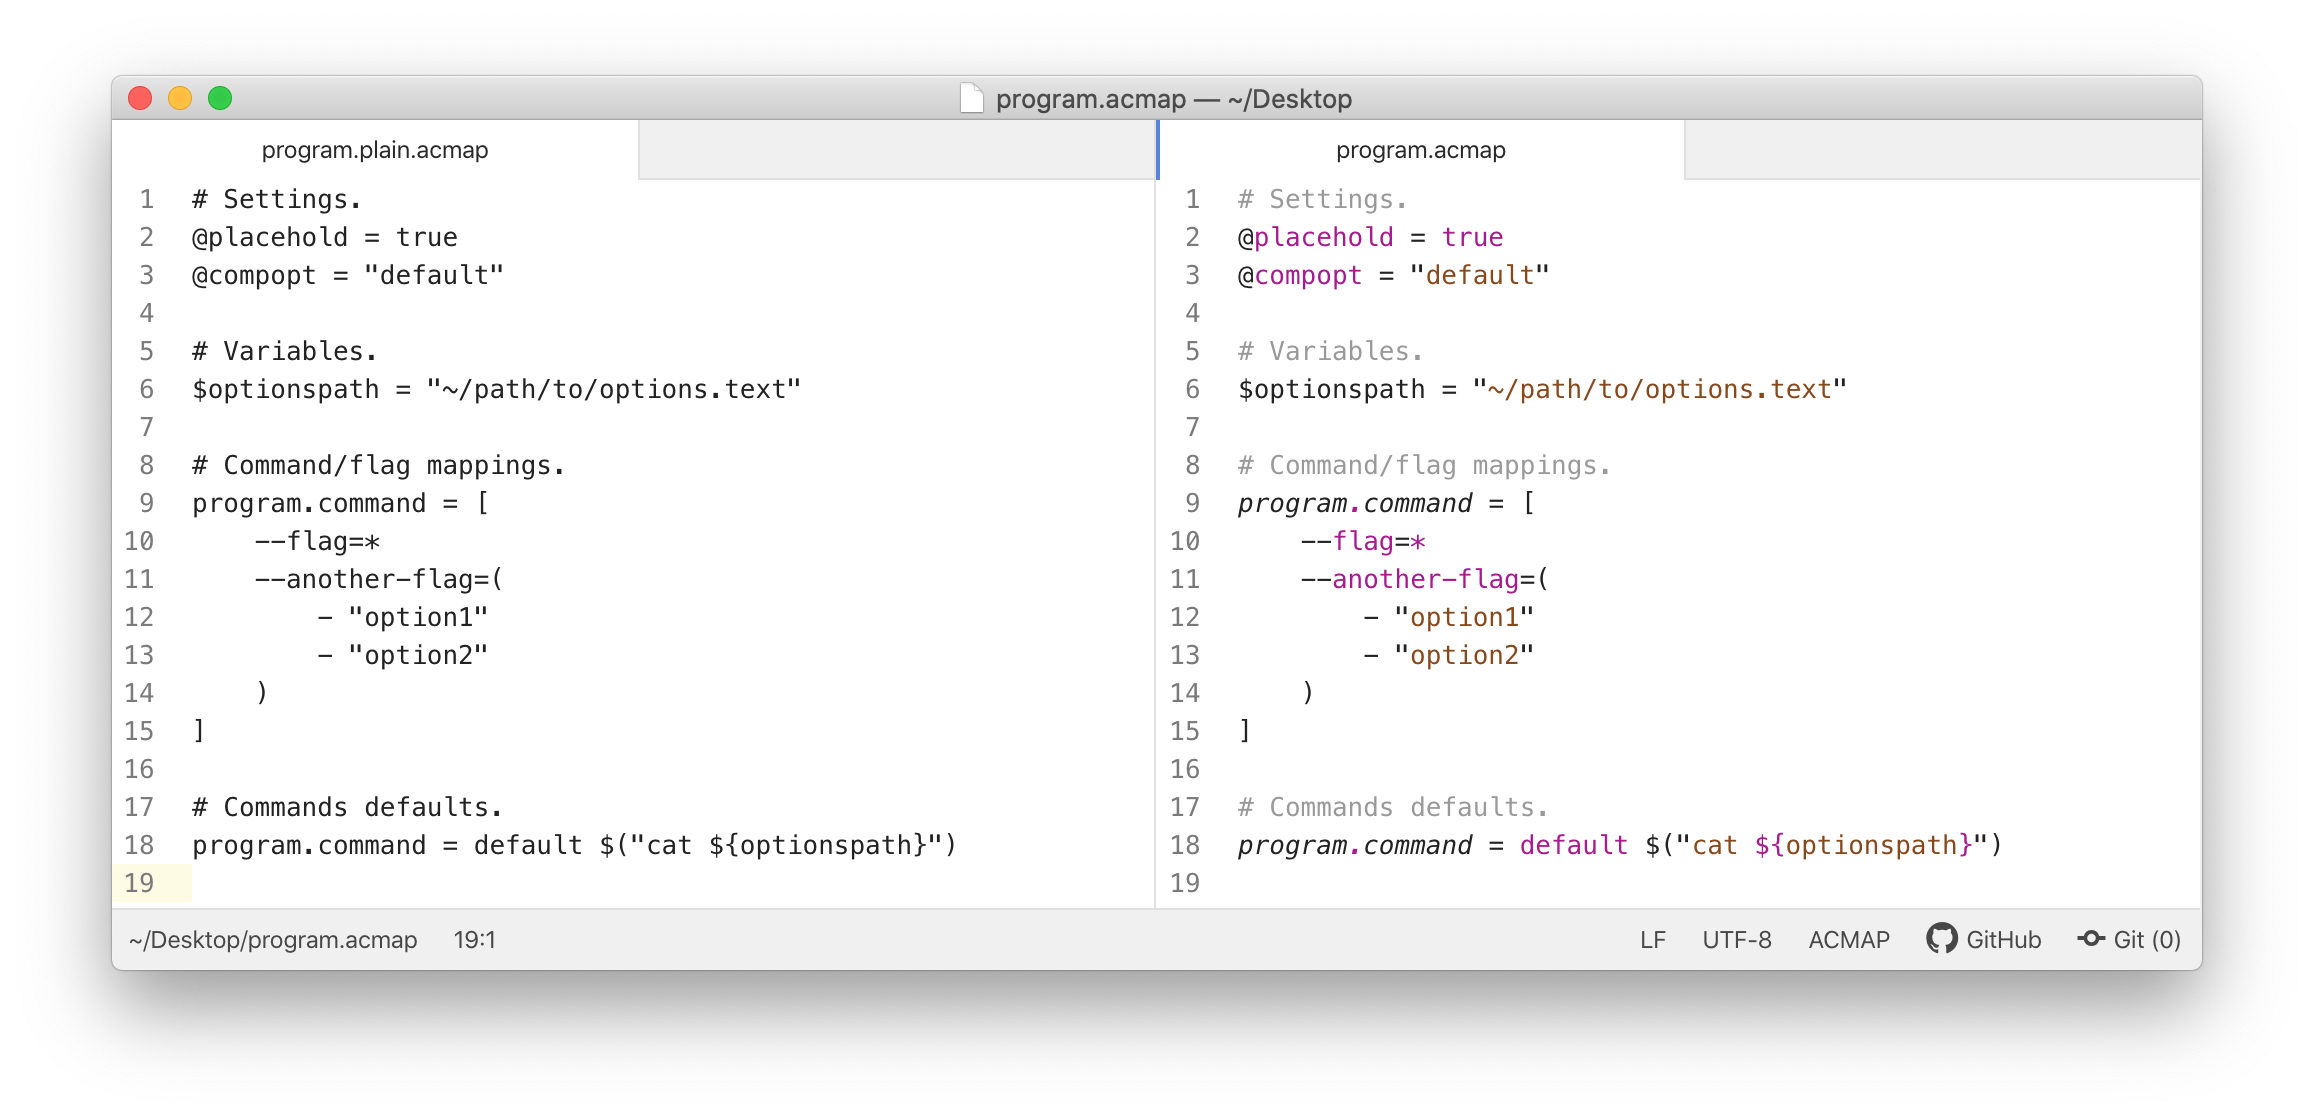
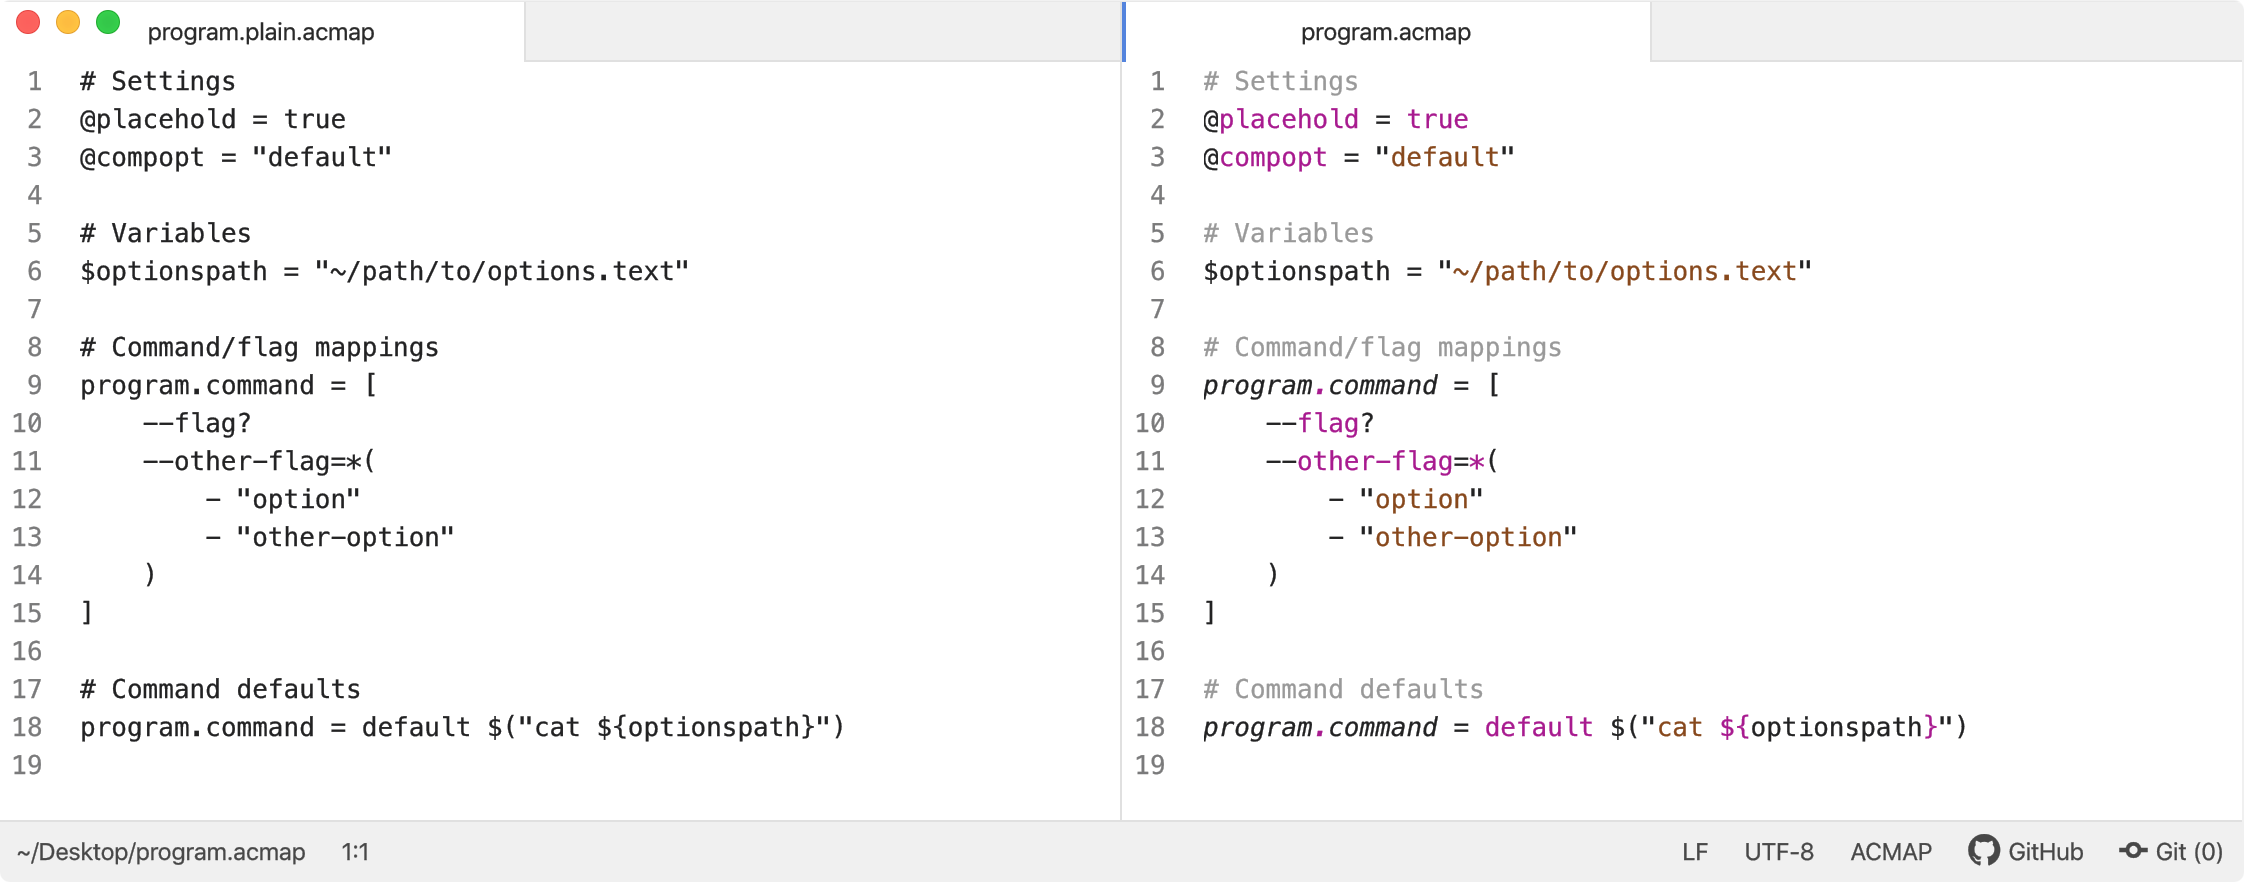
chore: Update resources/editors README.md files, update preview pics
- Cleanup the preview pictures; remove shadows, mini maps, and general
cleanups.

Changed region(s): [[0.0, 0.0306, 0.9982, 0.9796], [0.0, 0.0, 0.0624, 0.0612]]

diff --git a/resources/editors/vscode/README.md b/resources/editors/vscode/README.md
@@ -2,7 +2,7 @@
 
 _Package requires a manual install for now._
 
-Clone the repo and copy package (`resources/editors/vscode/cgabriel5-acmap-grammar`) to your `extensions` folder:
+Clone the repo and copy the package (`resources/editors/vscode/cgabriel5-acmap-grammar`) to your `extensions` folder:
 
 - **Windows**:
 

diff --git a/resources/editors/atom/README.md b/resources/editors/atom/README.md
@@ -2,7 +2,7 @@
 
 _Package requires a manual install for now._
 
-Clone the repo and copy package (`resources/editors/atom/language-acmap`) to Atom's packages folder:
+Clone the repo and copy the package (`resources/editors/atom/language-acmap`) to Atom's packages folder:
 
 - **Windows**:
 

diff --git a/resources/editors/sublime-text-3/README.md b/resources/editors/sublime-text-3/README.md
@@ -2,7 +2,7 @@
 
 _Package requires a manual install for now._
 
-Clone the repo and copy package (`resources/editors/sublime-text-3/acmap`) to your `User` folder:
+Clone the repo and copy the package (`resources/editors/sublime-text-3/acmap`) to your `User` folder:
 
 - **Windows**:
 
